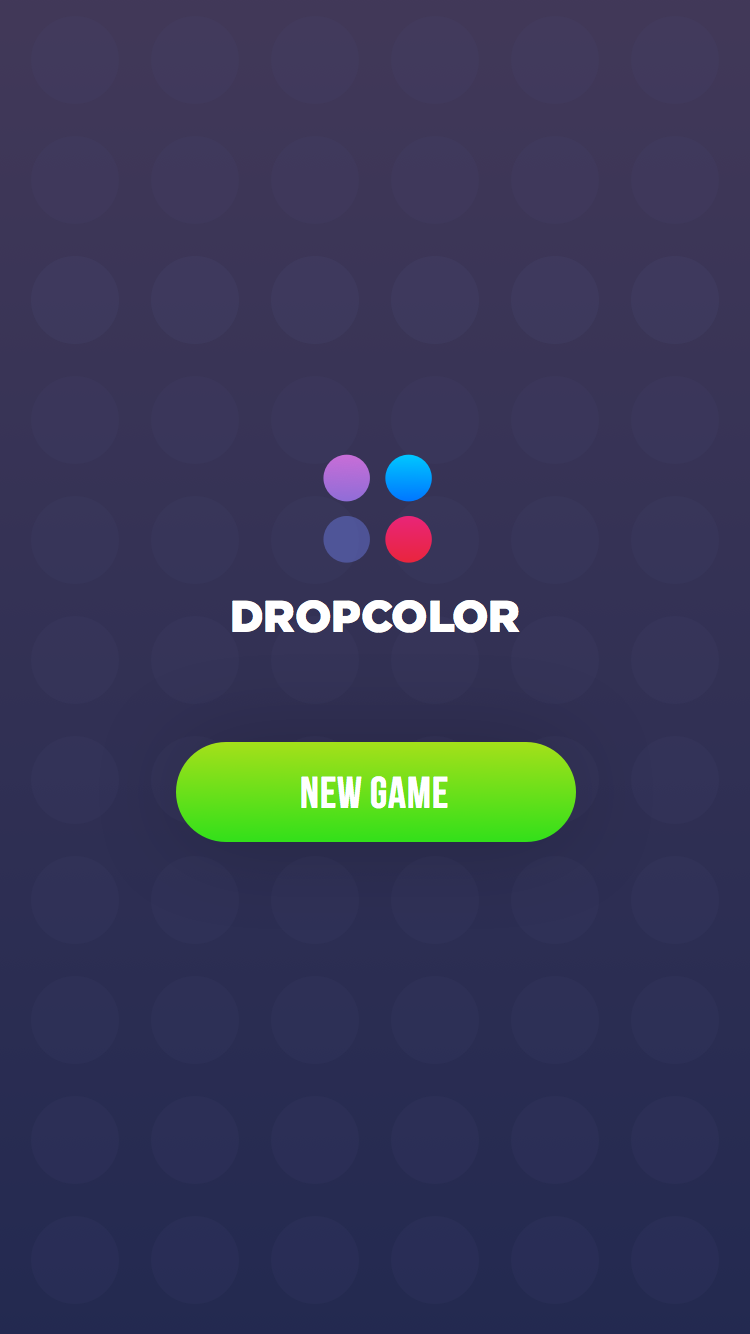
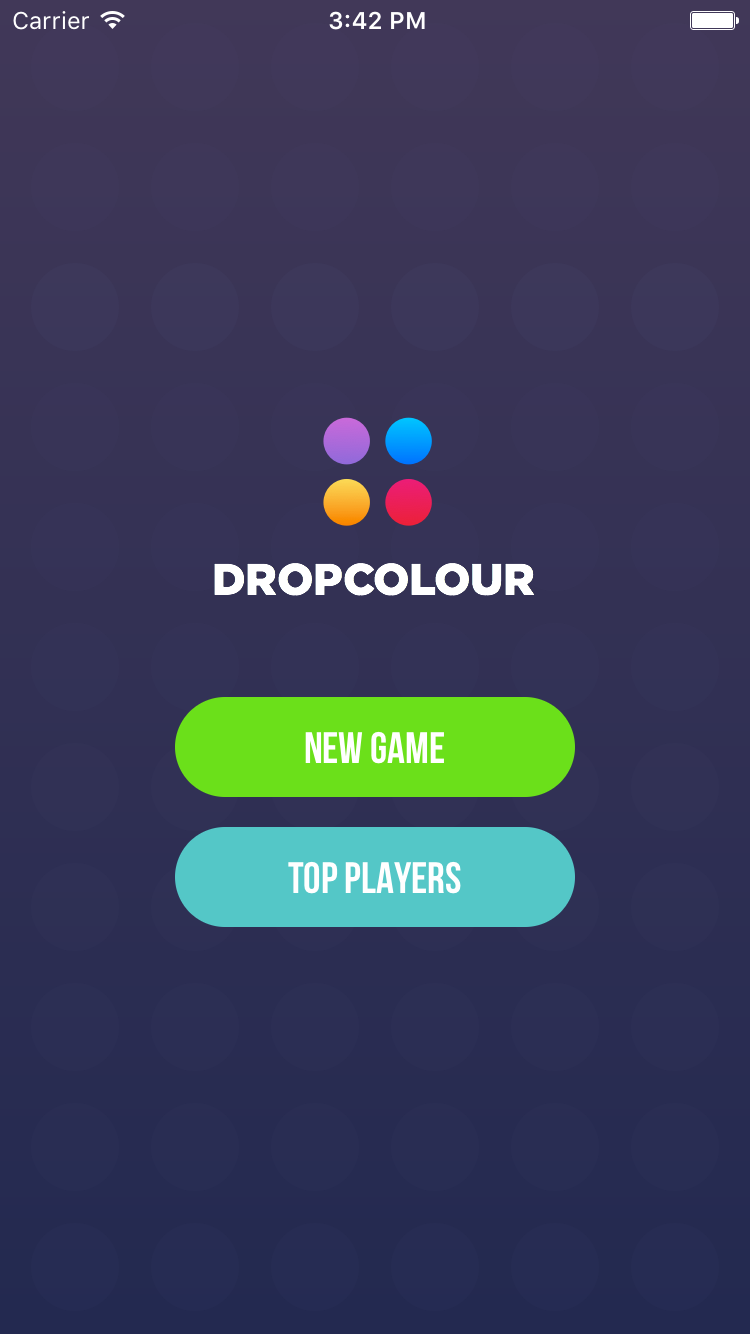
Updated README.md

diff --git a/README.md b/README.md
@@ -1,9 +1,11 @@
 ![platform](https://img.shields.io/badge/platform-iOS-orange.svg)
-![langauge Swift](https://img.shields.io/badge/language-Swift%202.0-orange.svg)
+![langauge Swift](https://img.shields.io/badge/language-Swift%202.1-orange.svg)
 ![app version](https://img.shields.io/badge/version-1.0-orange.svg)
-# DropColor - game for iOS
+[![Build Status](https://travis-ci.com/elpassion/el-color-game-ios.svg?token=nu9zU1tfHq8GJSir3pVq&branch=master)](https://travis-ci.com/elpassion/el-color-game-ios)
 
-Simple iOS game written in Swift 2.0 during hackathon.
+# DropColour - game for iOS
+
+Simple iOS game written in Swift 2.1 during hackathon.
 
 <img src = "Images/start.png" width = "40%" height = "40%"/>
-<img src="Images/gameboard.png" width = "40%" height = "40%"/>
+<img src="Images/game.png" width = "40%" height = "40%"/>
